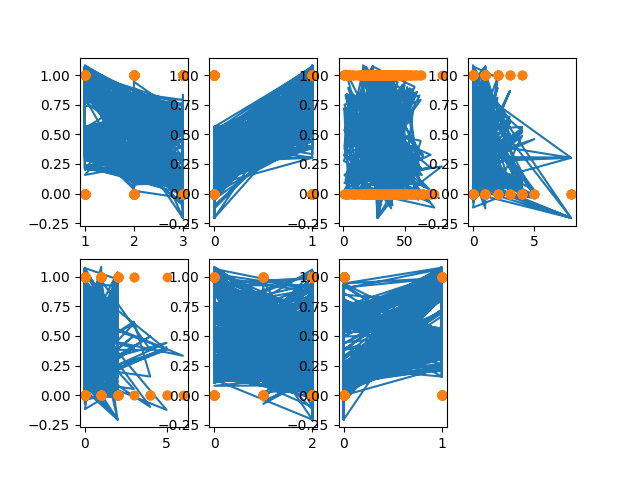
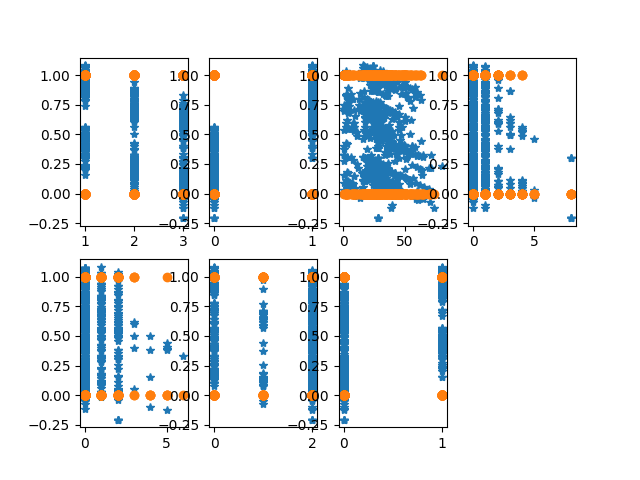
再修改一下画图的样子。

diff --git a/titanic/submit02.py b/titanic/submit02.py
@@ -65,6 +65,6 @@ if __name__ == "__main__":
 		X = new_train_data[index]
 		fig = plt.subplot(i)
 		i += 1
-		plt.plot(X, Y)
+		plt.plot(X, Y, "*")
 		plt.plot(X, y, "o")
 	plt.savefig("LRtest.png")
